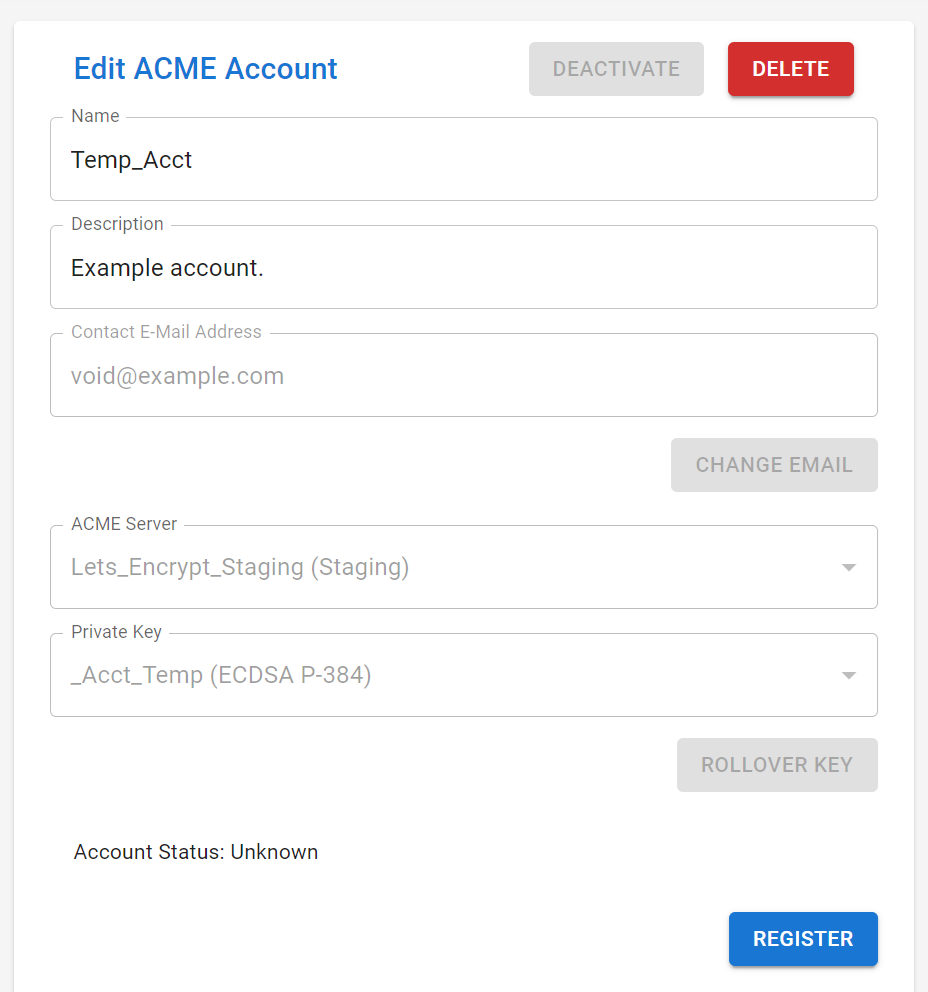
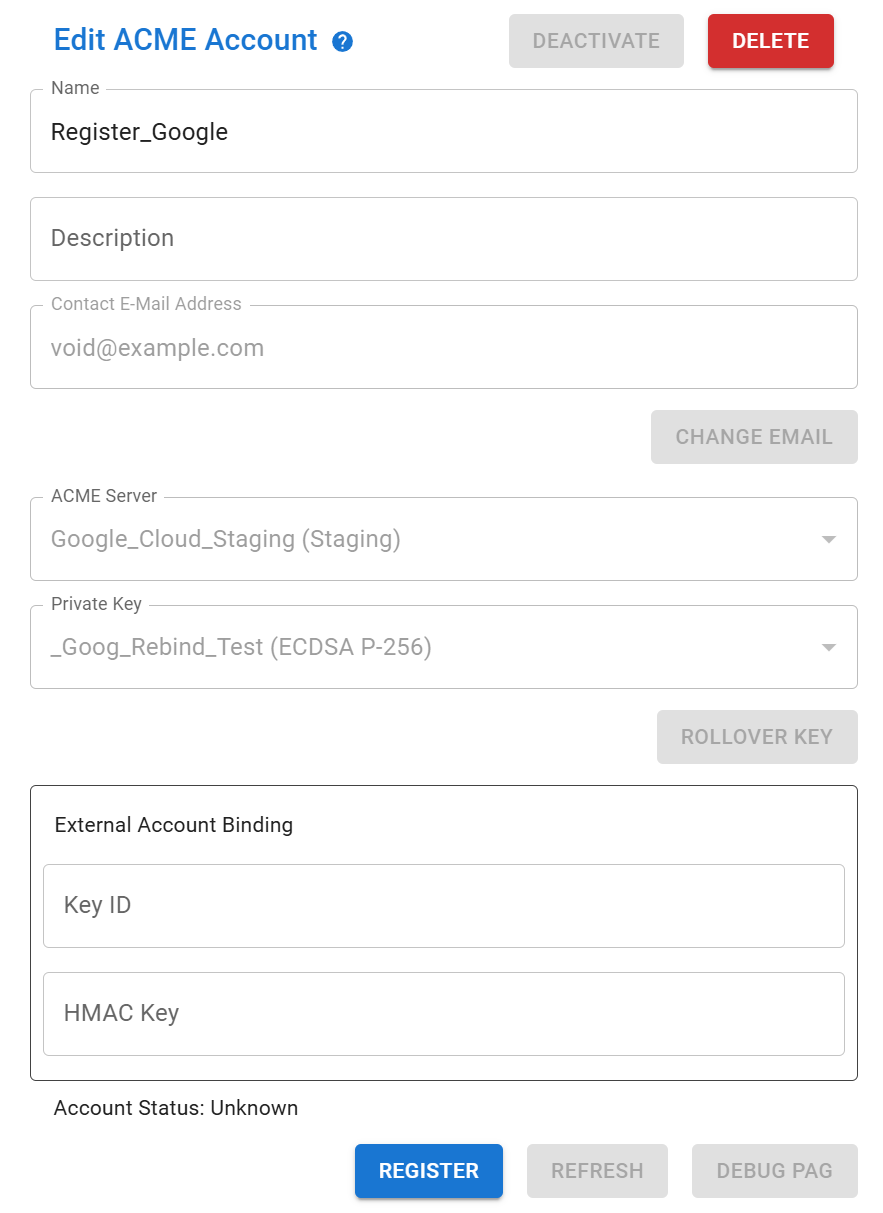
accounts: update details and add pag page

diff --git a/docs/3_user_interface/4_acme_accounts.md b/docs/3_user_interface/4_acme_accounts.md
@@ -40,9 +40,16 @@ utilized before the account is truly 'live' and available for use.
 
 ![ACME Account Page Before Registration](/img/screenshots/acme_accounts_pre-register.png)
 
-After clicking register you should see `Account Status: Valid`. If you have
-debugging turned on, you will also see the `KID`. The account is now ready for
-use.
+If your ACME Server requires `External Account Binding`, additional fields will be
+displayed by Cert Warden for you to input the related values. If this is not required
+by your ACME Server, these fields will not be shown. In the event you are re-adding
+an existing account that was already bound, you can leave the additional EAB fields
+blank.
+
+After clicking register you should see `Account Status: Valid`. Additionally, there
+will be an information icon next to the header `Account URL:`. Clicking this icon
+will show you the account's URL and a copy button. This is useful if you are creating
+detailed CAA records which only authorize specfic account URLs to issue certificates.
 
 ![ACME Account Page After OK Registration](/img/screenshots/acme_accounts_valid.png)
 
@@ -66,6 +73,25 @@ A compromised key gives the attacker complete control over the account. Always
 rollover your key if you suspect even the smallest possibility of compromise.
 :::
 
-The `KID` is only shown when show debug information is enabled.
+`Refresh` sends a request to the ACME Server to get the most up-to-date information
+about the ACME Account, from the Server. This button is generally not needed.
 
 ![Edit Account Page](/img/screenshots/acme_accounts_edit.png)
+
+## Debug PaG
+
+The Debug POST-as-GET (PaG) page allows manual fetching of resources using an ACME
+Account.
+
+The ACME specification (RFC 8555) defines a secure method to GET resources by POSTing to the
+resource with a JWK instead of GETting the resource (section 6.3). This page allows sending these
+secure POST-as-GET requests to a URL of your choosing, using the selected account.
+This page then displays both the body of the resulting response as well as the headers
+returned by the ACME Server.
+
+This can be useful for troubleshooting, reviewing headers for things like alternate
+certificate chains, fetching those alternate chain links, or any number of other tasks
+that can be aided by the ability to manually review the plethora of resources that
+are used throughout the ACME process.
+
+![Debug POST-as-GET Page](/img/screenshots/acme_accounts_debug_pag.png)
